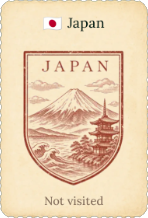
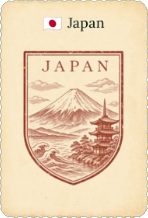
fixed simple

Changed region(s): [[0.4595, 0.8807, 0.7027, 0.9633], [0.2973, 0.8807, 0.4324, 0.9633]]

diff --git a/resources/views/website/index.blade.php b/resources/views/website/index.blade.php
@@ -1044,7 +1044,7 @@
       <div class="wrap explore-grid">
         <div>
           <h2 id="explore-title">Explore the World</h2>
-          <p>Discover countries, cities and iconic sights. Add them to your passport and grow your Kroo Score.</p><a class="button" href="#download">Start Exploring <svg aria-hidden="true">
+          <p>Discover countries, cities and iconic sights. Add them with stamps to your passport and grow your Kroo Score.</p><a class="button" href="#download">Start Exploring <svg aria-hidden="true">
               <use href="#icon-arrow" />
             </svg></a>
         </div>
